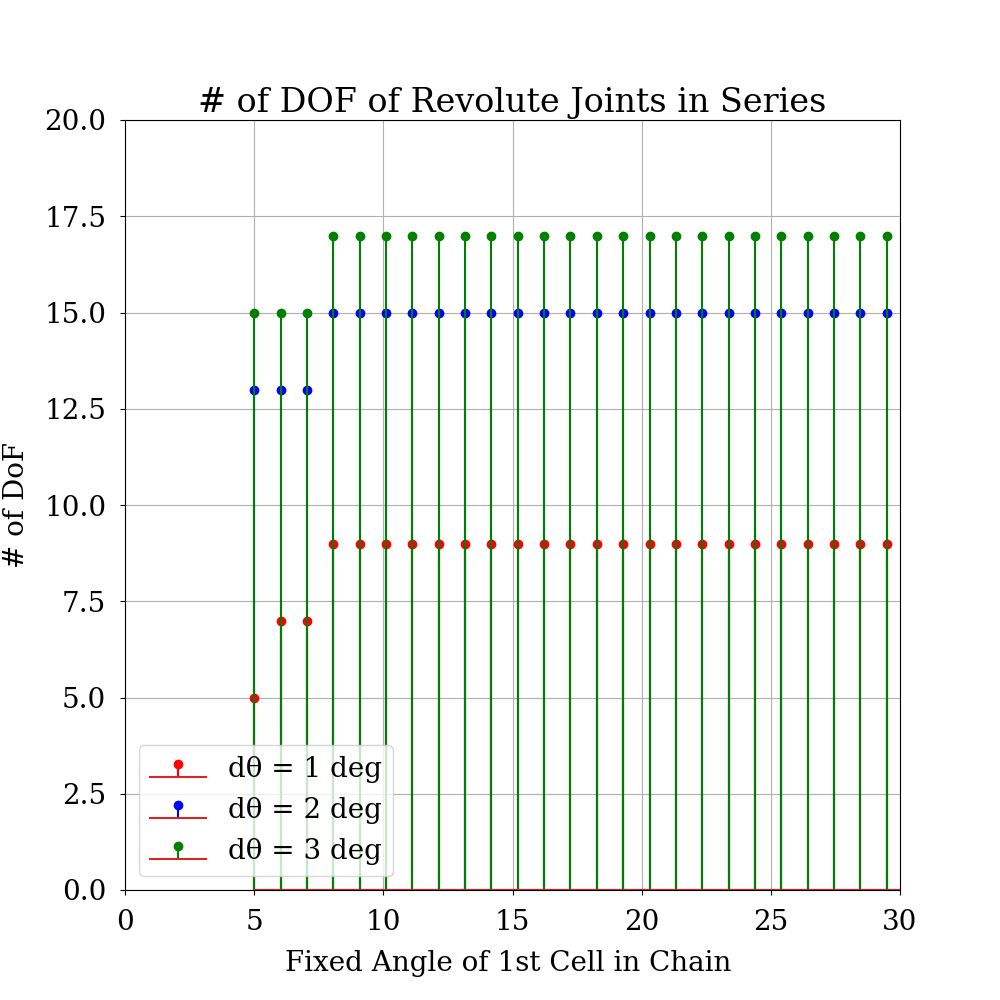
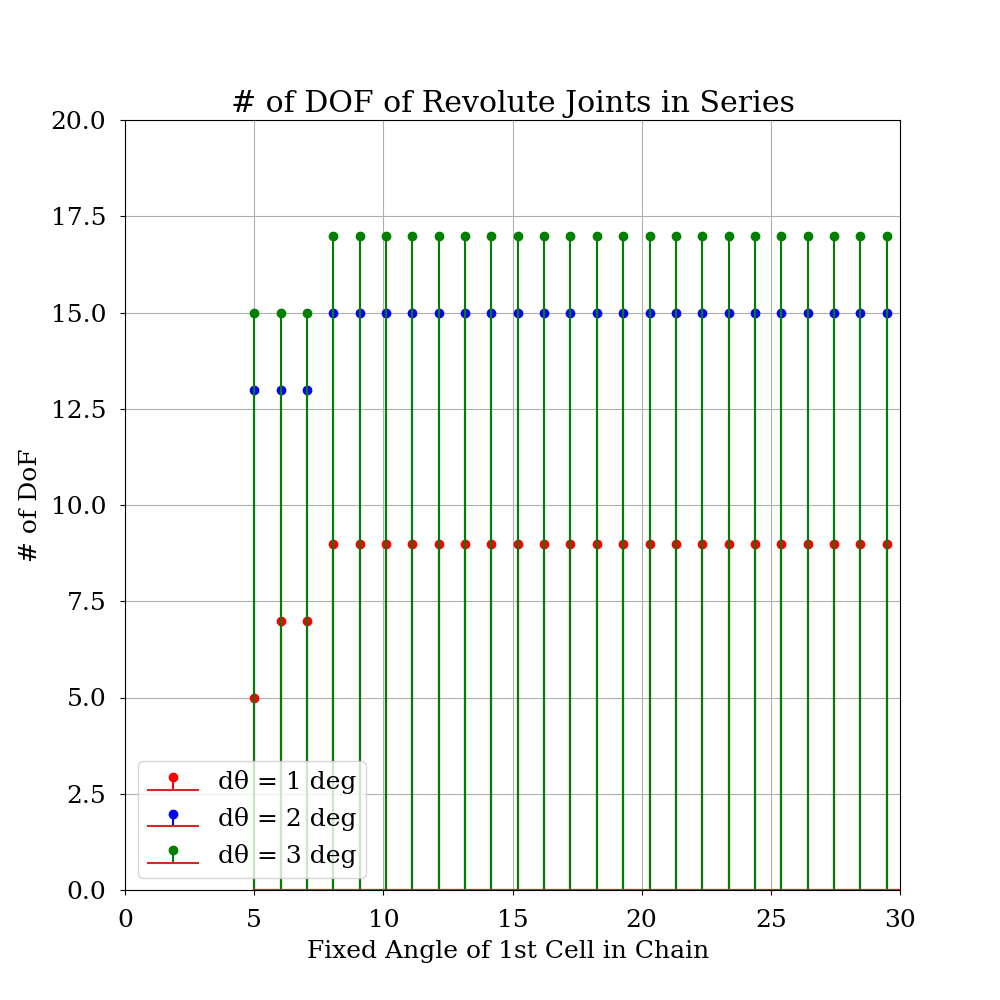
1D case

diff --git a/main_1D_dofs.py b/main_1D_dofs.py
@@ -8,7 +8,7 @@ import matplotlib.pyplot as plt
 # min(myList, key=lambda x:abs(x-myNumber))
 
 font = {'family': 'serif',
-        'size': 20}
+        'size': 18}
 csfont = {'fontname': 'Helvetica'}
 
 matplotlib.rc('font', **font)
@@ -66,7 +66,7 @@ def set_1D_chain(N, L_list, angle, fixed_dict, gap):
     for count2, i in enumerate(angles, 0):
         closest_fixed_cell = min(list(fixed_dict.keys()), key=lambda x: abs(x - count2))
         # Determine distance from each cell to fixed cell and add backlash according to ReLU relationship
-        distance_to_fixed = L_list[0]*abs(count2 - closest_fixed_cell)
+        distance_to_fixed = L_list[0] * abs(count2 - closest_fixed_cell)
 
         # set upper and lower angle bounds for each element
         if count2 not in fixed_dict.keys():
@@ -122,6 +122,11 @@ def plot_chain(x, y, top_angle_list, bottom_angle_list):
     # plt.ylabel("Z Coordinate")
 
 
+def dual_relu(x, b):
+    """ReLU returns 1 if x>0, else 0."""
+    dual_relu = np.maximum(0, x-b) + np.minimum(0, x+b)
+    return dual_relu
+
 if __name__ == '__main__':
     # set global variables in main function
     main()
@@ -131,7 +136,7 @@ if __name__ == '__main__':
     Ls_2 = [2 for i in range(20)]
     L2_3 = [3 for i in range(20)]
     angle = [10]
-    b = [1, 2, 3] # degrees
+    b = [0.5, 1, 1.5, 2, 2.5, 3]  # degrees
     fixs_dict = {0: 30, 19: 30}
     for backlash in b:
         x, y, a, ta, ba = set_1D_chain(N, Ls, angle, fixed_dict=fixs_dict, gap=backlash)
@@ -141,8 +146,8 @@ if __name__ == '__main__':
     print(dof_count)
     angle_settings = list(np.linspace(5, 55, 50))
 
-    dof_result = [[], [], []]
-    DO_number = []
+    dof_result = [[], [], [], [], [], []]
+    DO_number_at_b = []
     # run only one cell fixed
     for count, backlash in enumerate(b, 0):
         for angle in angle_settings:
@@ -154,6 +159,7 @@ if __name__ == '__main__':
             dof_count = get_DoF_from_chain(top_angle_list=ta, bottom_angle_list=ba)
             print("DoF Count: {}".format(dof_count))
             dof_result[count].append(dof_count)
+            DO_number_at_b.append([backlash, angle, dof_count])
     # DO distance
     a1 = 20 - max(dof_result[0])
     a2 = 20 - max(dof_result[1])
@@ -163,23 +169,82 @@ if __name__ == '__main__':
     # DOF result figure
     fig = plt.figure(4, figsize=(10, 10))
     ax = fig.add_subplot()
-    plt.stem(angle_settings, dof_result[0], 'r', label="dθ = 1 deg")
-    plt.stem(angle_settings, dof_result[1], 'b', label="dθ = 2 deg")
-    plt.stem(angle_settings, dof_result[2], 'g', label="dθ = 3 deg")
+    plt.stem(angle_settings, dof_result[1], 'r', label="dθ = 1 deg")
+    plt.stem(angle_settings, dof_result[3], 'b', label="dθ = 2 deg")
+    plt.stem(angle_settings, dof_result[5], 'g', label="dθ = 3 deg")
     plt.title("# of DOF of Revolute Joints in Series")
     plt.xlabel("Fixed Angle of 1st Cell in Chain ")
     plt.ylabel("# of DoF")
     plt.xlim((0, 60))
     plt.ylim((0, 20))
-    ax.xaxis.labelpad = 10
-    ax.yaxis.labelpad = 10
+    ax.xaxis.labelpad = 6
+    ax.yaxis.labelpad = 6
     plt.legend()
-    plt.xlim([0,30])
+    plt.xlim([0, 30])
     ax.tick_params(axis='both', which='major', pad=10)
     plt.grid()
     plt.savefig("dof_to_angle_relation 1 Ls.png")
 
-    # DO range
+    # DO at backlash and angle figure
+    backlash_list = [i[0] for i in DO_number_at_b]
+    angle_list = [i[1] for i in DO_number_at_b]
+    DO_list = [i[2] for i in DO_number_at_b]
+
+    DO_number_array = np.array(DO_number_at_b)
+    DO_number_array_ddx = np.gradient(DO_number_array)
+    print(DO_number_array_ddx)
+
+    fig = plt.figure(figsize=(8, 8))
+    ax = fig.add_subplot()
+    sc = ax.scatter(angle_list, backlash_list, c=DO_list)
+    ax.set_title("Max DO Distance - Varying Backlash and Driven Angle")
+    ax.set_xlabel('Driven cell angle')
+    ax.set_ylabel('dθ [degrees]')
+    ax.xaxis.labelpad = 6
+    ax.yaxis.labelpad = 6
+    ax.tick_params(axis='both', which='major', pad=10)
+    plt.colorbar(sc, label="DO Distance")
+    plt.savefig("./figures/DO_mapping_to_b_and_angle.png")
+    plt.show()
+    plt.close()
+
+    #angle_list = [i[:, 0] for i in DO_number_array_ddx]
+    #backlash_list = [i[:, 1] for i in DO_number_array_ddx]
+    dDO_dx = [i[:, 2] for i in DO_number_array_ddx]
+    print(dDO_dx)
+
+
+    fig = plt.figure(figsize=(8, 8))
+    ax = fig.add_subplot()
+    sc = ax.scatter(angle_list, backlash_list, c=dDO_dx[1])
+    ax.set_title("dDO/dx for b and drive angle")
+    ax.set_xlabel('Driven cell angle')
+    ax.set_ylabel('Normalized Backlash [n.d.]')
+    ax.xaxis.labelpad = 6
+    ax.yaxis.labelpad = 6
+    ax.tick_params(axis='both', which='major', pad=10)
+    plt.colorbar(sc, label="dDO/dx")
+    plt.savefig("./figures/DO_mapping_to_b_and_angle_ddx.png")
+    plt.show()
+    plt.close()
+
+    # ReLU plot
+    b = 10
+    X = np.arange(-60, 60, 1)
+    Y1 = dual_relu(X, 0)
+    Y2 = dual_relu(X, b)
+    fig = plt.figure(figsize=(8, 8))
+    ax = fig.add_subplot()
+    sc = ax.plot(X, Y1, label="Linear")
+    sc = ax.plot(X, Y2, label="ReLU Stiffness")
+    ax.set_title("ReLU Function as Non-Linear Stiffness Model")
+    ax.set_xlabel('Driven Cell Angle')
+    ax.set_ylabel('Stiffness [N/mm]')
+    plt.legend()
+    plt.savefig("./figures/ReLU_demo_figure.png")
+    plt.show()
+    plt.close()
+
 
     # hardcoded example
     # fig = plt.figure(5, figsize=(10, 10))
